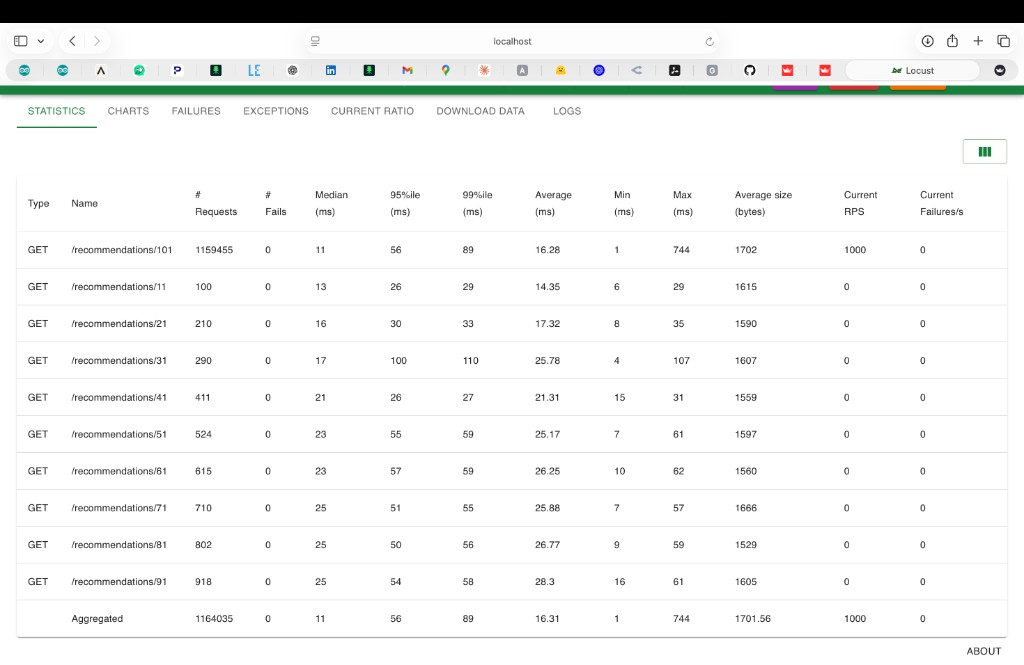
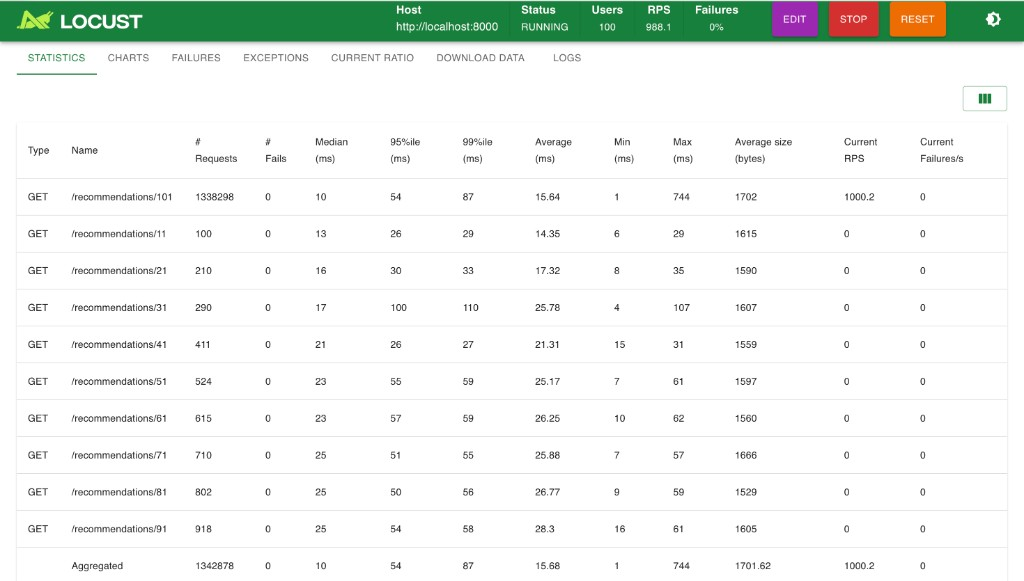
docs: update Locust benchmark screenshot and results (~1.34M req)
Made-with: Cursor

diff --git a/dashboard/app.py b/dashboard/app.py
@@ -185,15 +185,15 @@ with bench_tab:
             [
                 {
                     "Scenario": "Read-heavy (cached) GET /recommendations/*",
-                    "Total requests": 1_164_035,
+                    "Total requests": 1_342_878,
                     "Users": 100,
                     "Spawn rate (/s)": 10,
                     "Current RPS": "~1,000",
                     "Failures": 0,
-                    "Median (ms)": 11,
-                    "p95 (ms)": 56,
-                    "p99 (ms)": 89,
-                    "Average (ms)": 16.31,
+                    "Median (ms)": 10,
+                    "p95 (ms)": 54,
+                    "p99 (ms)": 87,
+                    "Average (ms)": 15.68,
                 }
             ]
         ),

diff --git a/scripts/generate_benchmark_png.py b/scripts/generate_benchmark_png.py
@@ -12,8 +12,8 @@ def main() -> None:
 
     # Numbers from a long local Locust run (read-heavy, cached GET /recommendations/*, Safari UI export).
     rows = [
-        ("Aggregated", 1_164_035, 0, 11, 56, 89, 16.31, 1, 744, 1701.56, 1000, 0),
-        ("GET /recommendations/101", 1_159_455, 0, 11, 56, 89, 16.28, 1, 744, 1702, 1000, 0),
+        ("Aggregated", 1_342_878, 0, 10, 54, 87, 15.68, 1, 744, 1701.56, 1000.2, 0),
+        ("GET /recommendations/101", 1_338_298, 0, 10, 54, 87, 15.64, 1, 744, 1702, 1000.2, 0),
     ]
 
     cols = [

diff --git a/README.md b/README.md
@@ -1,4 +1,4 @@
-![Locust (Safari, local): ~1.16M requests, ~1k RPS, 0 failures, p95 ~56ms — read-heavy GET /recommendations/*](docs/benchmarks/locust-1000rps.png)
+![Locust (Safari, local): ~1.34M requests, ~1k RPS, 0 failures, p95 ~54ms — read-heavy GET /recommendations/*](docs/benchmarks/locust-1000rps.png)
 
 # Real-Time ML Recommendation API
 
@@ -64,7 +64,7 @@ If `streamlit`/`uvicorn` suddenly isn’t on your PATH after moving the project 
 
 I split this into two runs on purpose: a **read heavy** test for headline latency/RPS, and a **mixed** test if I want a little write traffic.
 
-**Read heavy (README screenshot: ~1.16M total requests, mostly `GET /recommendations/101`, ~1k RPS):**
+**Read heavy (README screenshot: ~1.34M total requests, mostly `GET /recommendations/101`, ~1k RPS):**
 - `make loadtest-read` (opens Locust on `http://localhost:8089`)
 - or headless: `./.venv/bin/python -m locust -f locust/locustfile_readonly.py --host http://localhost:8000 --headless --users 100 --spawn-rate 20 --run-time 2m`
 

diff --git a/docs/benchmark_results.md b/docs/benchmark_results.md
@@ -4,13 +4,13 @@ Recorded from a **long read-heavy Locust** run in Safari (aggregated and `GET /r
 
 | Metric | Aggregated | `GET /recommendations/101` |
 |--------|------------|-----------------------------|
-| **# Requests** | 1,164,035 | 1,159,455 |
+| **# Requests** | 1,342,878 | 1,338,298 |
 | **# Fails** | 0 | 0 |
-| **Median (ms)** | 11 | 11 |
-| **p95 (ms)** | 56 | 56 |
-| **p99 (ms)** | 89 | 89 |
-| **Average (ms)** | 16.31 | 16.28 |
-| **Current RPS** | ~1,000 | ~1,000 |
+| **Median (ms)** | 10 | 10 |
+| **p95 (ms)** | 54 | 54 |
+| **p99 (ms)** | 87 | 87 |
+| **Average (ms)** | 15.68 | 15.64 |
+| **Current RPS** | ~1,000.2 | ~1,000.2 |
 
 Screenshot: `docs/benchmarks/locust-1000rps.png`
 
